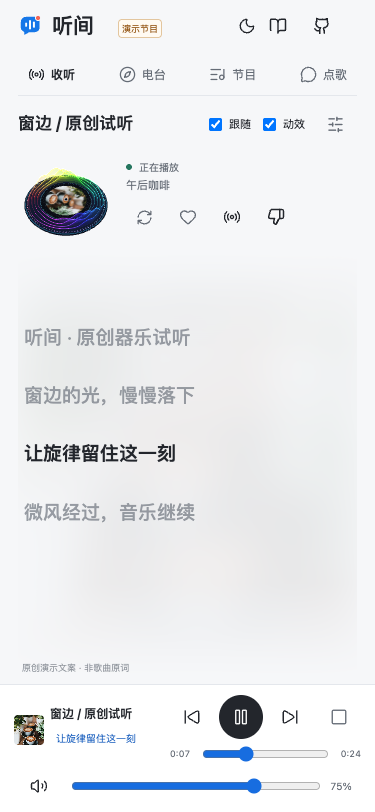
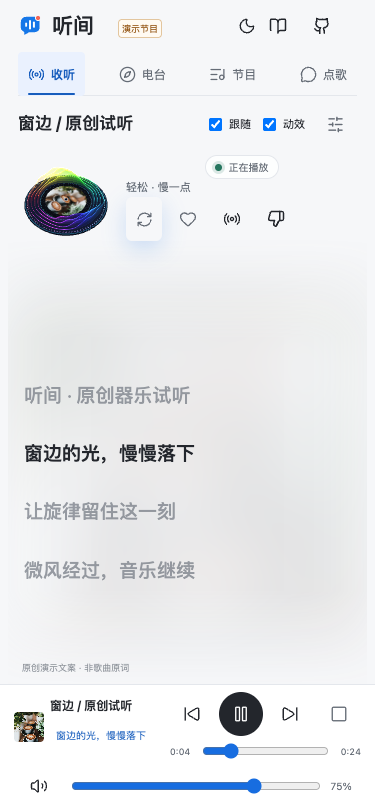
feat: refine focused listening interface

diff --git a/backend/static/index.html b/backend/static/index.html
@@ -12,20 +12,20 @@
   <meta name="twitter:card" content="summary_large_image">
   <title>听间 Tingjian · 你的 AI 音乐电台</title>
   <link rel="icon" href="assets/brand.svg" type="image/svg+xml">
-  <link rel="stylesheet" href="style.css?v=20260909-2">
-  <link rel="stylesheet" href="listening.css?v=20260909-2">
-  <link rel="stylesheet" href="lyrics.css?v=20260909-2">
-  <link rel="stylesheet" href="recommendations.css?v=20260909-2">
-  <link rel="stylesheet" href="quiet.css?v=20260909-2">
-  <script src="listening.js?v=20260909-2" defer></script>
-  <script src="app.js?v=20260909-2" type="module"></script>
+  <link rel="stylesheet" href="style.css?v=20260909-3">
+  <link rel="stylesheet" href="listening.css?v=20260909-3">
+  <link rel="stylesheet" href="lyrics.css?v=20260909-3">
+  <link rel="stylesheet" href="recommendations.css?v=20260909-3">
+  <link rel="stylesheet" href="quiet.css?v=20260909-3">
+  <script src="listening.js?v=20260909-3" defer></script>
+  <script src="app.js?v=20260909-3" type="module"></script>
 </head>
 <body id="top">
   <a class="skip-link" href="#listening">跳到播放器</a>
   <aside class="sidebar">
     <a class="brand" href="#listening" aria-label="听间首页"><img src="assets/brand.svg" alt="" width="40" height="40"><span><strong>听间</strong><small>TINGJIAN RADIO</small></span></a>
     <nav aria-label="主导航">
-      <a class="nav-link active" href="#listening" aria-label="正在收听"><span class="icon" style="--icon:url(assets/Radio.svg)"></span><span>收听</span></a>
+      <a class="nav-link active" href="#listening" aria-label="正在收听" aria-current="page"><span class="icon" style="--icon:url(assets/Radio.svg)"></span><span>收听</span></a>
       <a class="nav-link" href="#themes" aria-label="主题电台"><span class="icon" style="--icon:url(assets/Compass.svg)"></span><span>电台</span></a>
       <a class="nav-link" href="#queue-section" aria-label="节目、收藏与历史"><span class="icon" style="--icon:url(assets/ListMusic.svg)"></span><span>节目</span></a>
       <a class="nav-link" href="#conversation" aria-label="点歌互动"><span class="icon" style="--icon:url(assets/MessageCircle.svg)"></span><span>点歌</span></a>
@@ -34,14 +34,14 @@
   </aside>
 
   <main>
-    <header class="page-header"><div class="page-greeting"><p class="eyebrow" id="today"></p><h1>留一点时间，给音乐。</h1></div><span class="demo-badge" id="demo-badge" hidden>演示节目</span><div class="view-actions"><button class="icon-button" id="lyrics-toggle" aria-label="查看歌词" data-tip="查看歌词"><span class="icon" style="--icon:url(assets/Captions.svg)"></span></button><button class="icon-button" id="appearance" aria-label="切换深色模式" data-tip="切换深色模式"><span class="icon" id="appearance-icon" style="--icon:url(assets/Moon.svg)"></span></button><a class="icon-button" href="https://github.com/HachikoJ/easy-radio-host" target="_blank" rel="noopener noreferrer" aria-label="GitHub 项目" data-tip="GitHub 项目"><span class="icon" style="--icon:url(assets/ArrowUpRight.svg)"></span></a></div></header>
+    <header class="page-header"><div class="page-greeting"><p class="eyebrow" id="today"></p><h1>留一点时间，给音乐。</h1></div><span class="demo-badge" id="demo-badge" hidden>演示节目</span><div class="view-actions"><button class="icon-button" id="lyrics-toggle" aria-label="查看歌词" aria-controls="lyrics-lines" data-tip="查看歌词"><span class="icon" style="--icon:url(assets/Captions.svg)"></span></button><button class="icon-button" id="appearance" aria-label="切换深色模式" aria-pressed="false" data-tip="切换深色模式"><span class="icon" id="appearance-icon" style="--icon:url(assets/Moon.svg)"></span></button><a class="icon-button" href="https://github.com/HachikoJ/easy-radio-host" target="_blank" rel="noopener noreferrer" aria-label="GitHub 项目" data-tip="GitHub 项目"><span class="icon" style="--icon:url(assets/ArrowUpRight.svg)"></span></a></div></header>
     <div class="workspace">
       <div class="listen-column">
         <section class="listening" id="listening" aria-label="正在收听">
           <div class="cover-wrap"><img id="cover" src="assets/coffee.jpg" alt="午后咖啡主题封面" width="480" height="480"><span class="cover-caption"><span class="icon" style="--icon:url(assets/Headphones.svg)"></span>听间主题电台</span></div>
           <div class="show-summary">
             <p class="show-status"><span class="status-dot" id="status-dot"></span><span id="show-status" aria-live="polite">准备就绪</span></p>
-            <p class="selected-theme" id="show-theme">午后咖啡</p>
+            <p class="selected-theme" id="show-theme">轻松 · 慢一点</p>
             <div class="now-heading"><h2 id="now-title">午后咖啡</h2><div class="song-actions"><button class="icon-button favorite-action" id="favorite" aria-label="收藏当前歌曲" aria-pressed="false" data-tip="收藏当前歌曲" disabled><span class="icon" style="--icon:url(assets/Heart.svg)"></span></button><button class="icon-button" id="related" aria-label="生成同歌手延伸节目" data-tip="同歌手延伸" disabled><span class="icon" style="--icon:url(assets/Radio.svg)"></span></button><button class="icon-button" id="dislike" aria-label="少推荐这首" aria-pressed="false" data-tip="少推荐这首" disabled><span class="icon" style="--icon:url(assets/ThumbsDown.svg)"></span></button></div></div>
             <p class="recommendation-reason" id="recommendation-reason" hidden></p>
             <p class="show-slogan" id="show-slogan">忙里偷闲的一杯歌</p>
@@ -83,7 +83,7 @@
         </div>
         <div class="chat-composer">
           <p class="chat-error" id="chat-error" role="alert" hidden></p>
-          <form class="chat-form" id="chat-form" aria-busy="false"><label class="sr-only" for="message">点歌或与主持人聊天</label><textarea id="message" placeholder="想听什么，说给小蓝…" rows="2" maxlength="1000" aria-describedby="chat-error"></textarea><div class="composer-footer"><div class="composer-meta"><span class="chat-status" id="chat-status" role="status"></span><span id="message-count">0 / 1000</span></div><button class="send-button" id="send" type="submit" aria-label="发送给小蓝" data-tip="发送给小蓝" disabled><span class="icon" id="send-icon" style="--icon:url(assets/Send.svg)"></span></button></div></form>
+          <form class="chat-form" id="chat-form" aria-busy="false"><label class="sr-only" for="message">点歌或与主持人聊天</label><textarea id="message" placeholder="例如：想听陈奕迅的《十年》" rows="2" maxlength="1000" aria-describedby="chat-error"></textarea><div class="composer-footer"><div class="composer-meta"><span class="chat-status" id="chat-status" role="status"></span><span id="message-count">0 / 1000</span></div><button class="send-button" id="send" type="submit" aria-label="发送给小蓝" data-tip="发送给小蓝" disabled><span class="icon" id="send-icon" style="--icon:url(assets/Send.svg)"></span></button></div></form>
         </div>
       </aside>
     </div>
@@ -91,7 +91,7 @@
   </main>
 
   <footer class="player-bar" aria-label="播放控制">
-    <div class="track-summary"><img id="mini-cover" src="assets/coffee.jpg" alt="" width="48" height="48"><div><strong id="track-title">还没有开始播放</strong><span id="track-kind">午后咖啡 · 小蓝</span><button class="player-lyric" id="player-lyric" aria-label="查看歌词" disabled><span id="player-lyric-text">选择歌曲后显示歌词</span></button></div></div>
+    <div class="track-summary"><img id="mini-cover" src="assets/coffee.jpg" alt="" width="48" height="48"><div><strong id="track-title">还没有开始播放</strong><span id="track-kind">小蓝 · 等待开播</span><button class="player-lyric" id="player-lyric" aria-label="查看歌词" aria-controls="lyrics-lines" disabled><span id="player-lyric-text">选择歌曲后显示歌词</span></button></div></div>
     <div class="transport"><div class="transport-buttons"><button class="icon-button" id="previous" aria-label="上一段" data-tip="上一段" disabled><span class="icon" style="--icon:url(assets/SkipBack.svg)"></span></button><button class="play-button" id="play" aria-label="开始收听" data-tip="开始收听"><span class="icon" id="play-icon" style="--icon:url(assets/Play.svg)"></span></button><button class="icon-button" id="next" aria-label="下一段" data-tip="下一段" disabled><span class="icon" style="--icon:url(assets/SkipForward.svg)"></span></button><button class="icon-button stop-button" id="stop" aria-label="停止播放" data-tip="停止播放" disabled><span class="icon" style="--icon:url(assets/Square.svg)"></span></button></div><div class="progress"><time id="elapsed">0:00</time><input id="seek" type="range" min="0" max="1000" value="0" aria-label="播放进度" disabled><time id="duration">0:00</time></div></div>
     <div class="volume"><button class="icon-button" id="mute" aria-label="静音" data-tip="静音"><span class="icon" id="volume-icon" style="--icon:url(assets/Volume2.svg)"></span></button><input id="volume" type="range" min="0" max="100" value="75" aria-label="音量"><span id="volume-value">75%</span></div>
   </footer>

diff --git a/backend/static/listening.css b/backend/static/listening.css
@@ -1,8 +1,8 @@
-:root{--surface-muted:#edf0f4;--hover:#e9edf3;--action-text:#175dbd;--field-line:#d9dee6;--player-surface:#fffffff5;--danger-bg:#fff0ee;--danger-text:#863b37}
+:root{--surface-muted:#edf0f4;--hover:#e9edf3;--action-text:#175dbd;--field-line:#858d98;--player-surface:#fffffff5;--danger-bg:#fff0ee;--danger-text:#863b37}
 .view-actions{display:flex;gap:4px;align-items:center;margin-left:auto;flex:none}.view-actions .icon-button{width:44px;height:44px}.focus-brand{display:none}.selected-theme{font-size:12px;color:var(--secondary);margin-bottom:7px}.now-heading{display:flex;align-items:flex-start;gap:10px}.now-heading h2{font-size:27px;line-height:1.4;flex:1}.favorite-action{color:var(--secondary);width:44px;height:44px}.favorite-action[aria-pressed=true]{color:#c74b61;background:#fcecf0}.favorite-action:disabled{opacity:.3}.show-summary h2{overflow-wrap:anywhere}.listening{gap:28px}.show-slogan{font-size:13px}.host-byline{font-size:12px}.show-status{font-size:12px}.theme-card strong{font-size:13px}.theme-card small{font-size:11px}.queue-copy strong{font-size:13px}.queue-copy small{font-size:11px}.tiny-label{font-size:12px}.chat-entry,.host-intro p,.transcript p{font-size:14px}.chat-entry .speaker{font-size:11px}.chat-form textarea{font-size:14px}.send-button{height:44px;width:44px}.composer-footer{font-size:11px}.track-summary strong{font-size:13px}.track-summary span{font-size:11px}.icon-button,.play-button{width:44px;height:44px}.player-bar{background:var(--player-surface)}
 .library-tabs{display:flex;gap:22px;border-bottom:1px solid var(--line);margin-bottom:16px}.library-tabs button{min-height:46px;font-size:15px;padding:8px 0;border-bottom:2px solid transparent;color:var(--secondary);white-space:nowrap}.library-tabs button[aria-selected=true]{border-bottom-color:var(--blue);color:var(--ink);font-weight:600}.library-meta{font-size:12px;color:var(--secondary);margin:0 0 12px}.library-empty{min-height:100px;display:grid;place-items:center;color:var(--secondary);font-size:13px}.library-list{margin:0;padding:0;list-style:none}.library-list button{display:flex;align-items:center;gap:14px;width:100%;text-align:left;min-height:70px;border-bottom:1px solid var(--line);padding:12px}.library-list button:hover{background:var(--surface-muted)}.library-list .icon{color:var(--secondary);width:18px;height:18px}.library-copy{flex:1;min-width:0}.library-copy strong{display:block;font-size:13px;font-weight:500;overflow-wrap:anywhere}.library-copy small{display:block;font-size:11px;color:var(--secondary);margin-top:6px}.library-status{font-size:12px;color:var(--danger-text);line-height:1.7;margin-top:12px}.queue-section .section-heading{margin-bottom:8px}.page-footer{justify-content:flex-start;font-size:12px}.page-footer>span{margin-right:auto}
 .focus-mode .sidebar,.focus-mode .page-greeting,.focus-mode .listening,.focus-mode .theme-section,.focus-mode .queue-section,.focus-mode .conversation,.focus-mode .page-footer{display:none}.focus-mode .workspace,.focus-mode .listen-column{display:contents}.focus-mode main{margin:0;max-width:none;padding:28px 48px 0}.focus-mode .page-header{margin-bottom:20px}.focus-mode .focus-brand{display:flex;align-items:center;gap:10px;font-size:25px}.focus-mode .focus-brand img{width:36px;height:36px}.focus-mode .notice{position:fixed;bottom:calc(var(--player) + 16px);left:50%;transform:translateX(-50%);width:min(580px,calc(100% - 32px));z-index:7}.focus-stage{display:grid;grid-template-columns:minmax(0,420px) minmax(0,440px);justify-content:center;align-items:center;gap:76px;min-height:calc(100dvh - 224px);padding:30px 0 50px}.focus-art{margin:0;width:100%;min-width:0}.focus-art img{width:100%;aspect-ratio:1;height:auto;border-radius:6px}.focus-art figcaption{font-size:12px;color:var(--secondary);margin-top:16px}.focus-copy{min-width:0}.focus-copy h1{font-size:36px;line-height:1.45;overflow-wrap:anywhere}.focus-subtitle{color:var(--secondary);font-size:14px;margin:16px 0 10px}.focus-note{padding-top:22px;margin-top:16px;border-top:1px solid var(--line)}.focus-note>p:last-child{font-size:17px;line-height:1.9;margin-top:12px;white-space:pre-wrap;overflow-wrap:anywhere}.up-next{margin-top:28px;padding-top:24px;border-top:1px solid var(--line)}.up-next span{font-size:12px;color:var(--secondary)}.up-next p{font-size:14px;line-height:1.7;margin-top:8px;overflow-wrap:anywhere}
-html[data-appearance=dark]{color-scheme:dark;--canvas:#17191c;--white:#202226;--ink:#f0f1f3;--secondary:#afb3bb;--line:#363940;--blue:#3984ef;--soft-blue:#233751;--surface-muted:#282c31;--hover:#333840;--action-text:#91c0ff;--field-line:#51565f;--player-surface:#202226f7;--danger-bg:#402828;--danger-text:#ffb0a8}
+html[data-appearance=dark]{color-scheme:dark;--canvas:#17191c;--white:#202226;--ink:#f0f1f3;--secondary:#afb3bb;--line:#363940;--blue:#3984ef;--soft-blue:#233751;--surface-muted:#282c31;--hover:#333840;--action-text:#91c0ff;--field-line:#707782;--player-surface:#202226f7;--danger-bg:#402828;--danger-text:#ffb0a8}
 html[data-appearance=dark] .sidebar .nav-link:hover{background:var(--hover);color:var(--ink)}html[data-appearance=dark] .nav-link.active{color:var(--action-text)}html[data-appearance=dark] .chat-form{background:var(--white);border-color:var(--field-line)}html[data-appearance=dark] .chat-form:focus-within{border-color:var(--action-text)}html[data-appearance=dark] textarea::placeholder{color:var(--secondary)}html[data-appearance=dark] .chat-entry.user,html[data-appearance=dark] .queue-item.active button{background:var(--soft-blue);color:var(--ink)}html[data-appearance=dark] .queue-item button:hover{background:var(--surface-muted)}html[data-appearance=dark] .queue-kind{background:var(--hover);color:var(--secondary)}html[data-appearance=dark] .queue-item.active .queue-kind{background:var(--soft-blue);color:var(--action-text)}html[data-appearance=dark] .icon-button:hover:not(:disabled){background:var(--hover)}html[data-appearance=dark] .play-button{background:#e8edf4;color:#202226}html[data-appearance=dark] .play-button:hover:not(:disabled){background:#bdd7fc}html[data-appearance=dark] .host-avatar{background:var(--soft-blue);color:var(--action-text)}html[data-appearance=dark] .chat-status{color:var(--action-text)}html[data-appearance=dark] .notice{background:var(--danger-bg);color:var(--danger-text)}html[data-appearance=dark] .chat-error{color:var(--danger-text)}html[data-appearance=dark] .favorite-action[aria-pressed=true]{background:#442b33;color:#ffacbc}html[data-appearance=dark] .queue-empty,html[data-appearance=dark] .queue-empty .icon,html[data-appearance=dark] .queue-number{color:var(--secondary)}html[data-appearance=dark] .demo-badge{color:#f5c77e;border-color:#715b38;background:#30281d}html[data-appearance=dark] .primary-button,html[data-appearance=dark] .send-button{background:#216acc}html[data-appearance=dark] .skip-link{background:var(--white);color:var(--ink)}
 @media(max-width:1180px){.now-heading h2{font-size:26px}.theme-card strong{font-size:12px}.theme-card small{font-size:10px}.focus-stage{gap:44px;grid-template-columns:minmax(0,360px) minmax(0,400px)}}
 @media(max-width:800px){.page-header{flex-wrap:wrap;gap:12px}.page-greeting{flex:1;min-width:200px}.view-actions{margin-left:0}.page-header .demo-badge{margin-left:0}.page-header h1{font-size:22px}.focus-mode main{padding:22px 24px 0}.focus-stage{min-height:0;grid-template-columns:minmax(0,1fr);gap:30px;padding:20px 0 35px;max-width:500px;margin:auto}.focus-art{max-width:320px;justify-self:center}.focus-copy h1{font-size:28px}.focus-mode .view-actions{margin-left:auto}.focus-mode .page-header{flex-wrap:nowrap;gap:8px}.focus-mode .demo-badge{font-size:10px;padding:4px}.focus-copy .eyebrow{font-size:12px}.up-next{margin-top:18px;padding-top:18px}.chat-form textarea{font-size:16px}.library-tabs{gap:24px}.track-summary strong{font-size:12px}.track-summary span{font-size:10px}.theme-card strong{font-size:13px}.theme-card small{font-size:11px}.focus-note>p:last-child{font-size:16px}.page-footer{flex-wrap:wrap;gap:14px}}

diff --git a/backend/static/quiet.css b/backend/static/quiet.css
@@ -253,3 +253,68 @@ html[data-appearance=dark] .quiet-ui .chat-entry.user{background:none}
 .quiet-ui .compact-chat .send-button{grid-column:2;grid-row:1/3}
 .quiet-ui .compact-chat .chat-error{max-height:36px;margin-bottom:4px}
 @media(prefers-reduced-motion:reduce){.quiet-ui .chat-form[aria-busy=true] .send-button .icon{animation:none}}
+
+/* State-led listening layout and interaction polish. */
+html,body,.quiet-ui .page-header,.quiet-ui .player-bar,.quiet-ui .utility-drawer{transition:background-color .22s,color .22s,border-color .22s}
+.quiet-ui .nav-link{position:relative;transition:background-color .15s,color .15s}
+.quiet-ui .nav-link.active{background:var(--soft-blue);color:var(--action-text)}
+.quiet-ui .nav-link.active:after{content:"";position:absolute;left:12px;right:12px;bottom:2px;height:2px;border-radius:2px;background:currentColor}
+.quiet-ui .show-status{width:max-content;max-width:100%;padding:4px 9px;border:1px solid var(--line);border-radius:999px;background:color-mix(in srgb,var(--white) 82%,transparent);color:var(--secondary);line-height:1.4}
+.quiet-ui .record-column .show-status{margin-inline:auto}
+.quiet-ui .status-dot{width:7px;height:7px;background:#7b8490;box-shadow:0 0 0 3px color-mix(in srgb,#7b8490 14%,transparent)}
+.quiet-ui[data-playback-state=playing] .status-dot{background:var(--green);box-shadow:0 0 0 3px color-mix(in srgb,var(--green) 16%,transparent)}
+.quiet-ui[data-playback-state=preparing] .status-dot,.quiet-ui[data-playback-state=recovering] .status-dot,.quiet-ui[data-playback-state=waiting] .status-dot{background:var(--blue);box-shadow:0 0 0 3px color-mix(in srgb,var(--blue) 18%,transparent);animation:status-pulse 1.6s ease-in-out infinite}
+.quiet-ui[data-playback-state=paused] .status-dot{background:#bd7a27;box-shadow:0 0 0 3px color-mix(in srgb,#bd7a27 16%,transparent)}
+.quiet-ui .primary-button{box-shadow:0 8px 22px color-mix(in srgb,var(--blue) 20%,transparent);transition:background-color .15s,box-shadow .15s,transform .1s}
+.quiet-ui .primary-button:active:not(:disabled){transform:translateY(1px);box-shadow:0 3px 10px color-mix(in srgb,var(--blue) 16%,transparent)}
+.quiet-ui .primary-button:disabled{background:var(--surface-muted);color:var(--secondary);box-shadow:none;opacity:1}
+.quiet-ui .drawer-shade{background:rgba(24,29,37,.16);backdrop-filter:none;-webkit-backdrop-filter:none}
+html[data-appearance=dark] .quiet-ui .drawer-shade{background:rgba(0,0,0,.28)}
+.quiet-ui .utility-drawer{border-color:color-mix(in srgb,var(--ink) 20%,var(--line));box-shadow:0 18px 54px rgba(20,25,32,.2)}
+.quiet-ui .lyrics-panel:before{opacity:.1;filter:blur(28px) saturate(.88);transform:scale(1.06)}
+.quiet-ui .lyrics-panel[data-state=loading] .lyrics-status-row,.quiet-ui .lyrics-panel[data-state=empty] .lyrics-status-row,.quiet-ui .lyrics-panel[data-state=error] .lyrics-status-row{flex:1;justify-content:center;align-items:center;text-align:center;min-height:88px}
+.quiet-ui .lyrics-panel[data-state=loading] .lyrics-lines:empty,.quiet-ui .lyrics-panel[data-state=empty] .lyrics-lines:empty,.quiet-ui .lyrics-panel[data-state=error] .lyrics-lines:empty{flex:0 0 0;height:0}
+.quiet-ui .lyrics-panel[data-state=loading] .lyrics-status-row p,.quiet-ui .lyrics-panel[data-state=empty] .lyrics-status-row p,.quiet-ui .lyrics-panel[data-state=error] .lyrics-status-row p{display:flex;align-items:center;justify-content:center;gap:9px;font-size:12px;line-height:1.7}
+.quiet-ui .lyrics-panel[data-state=loading] .lyrics-status-row p:before,.quiet-ui .lyrics-panel[data-state=empty] .lyrics-status-row p:before,.quiet-ui .lyrics-panel[data-state=error] .lyrics-status-row p:before{content:"";width:8px;height:8px;border:2px solid var(--line);border-top-color:var(--blue);border-radius:50%;flex:none}
+.quiet-ui .lyrics-panel[data-state=loading] .lyrics-status-row p:before{animation:status-turn .8s linear infinite}
+.quiet-ui .lyrics-panel[data-state=empty] .lyrics-status-row p:before{border:0;background:var(--secondary);opacity:.7}
+.quiet-ui .lyrics-panel[data-state=error] .lyrics-status-row p:before{border:0;background:var(--danger-text)}
+.quiet-ui:not(.has-current):not(.focus-mode) .listening{grid-template-columns:minmax(280px,520px);justify-content:center;column-gap:0}
+.quiet-ui:not(.has-current):not(.focus-mode) .track-heading,.quiet-ui:not(.has-current):not(.focus-mode) .record-column{grid-column:1}
+.quiet-ui:not(.has-current):not(.focus-mode) .track-heading{width:100%;justify-self:center}
+.quiet-ui:not(.has-current):not(.focus-mode) .lyric-column{display:none}
+.quiet-ui:not(.has-current):not(.focus-mode) .record-column .cover-wrap{width:min(100%,440px,var(--record-room,440px))}
+.quiet-ui:not(.has-current):not(.focus-mode) .record-column .show-summary{max-width:440px}
+.quiet-ui #player-lyric,.quiet-ui #mute,.quiet-ui #volume{min-height:44px}
+.quiet-ui #volume{touch-action:pan-x}
+@keyframes status-pulse{50%{box-shadow:0 0 0 7px color-mix(in srgb,var(--blue) 5%,transparent)}}
+@keyframes status-turn{to{transform:rotate(360deg)}}
+
+@media(min-width:601px) and (max-width:800px){
+  .quiet-ui:not(.focus-mode) .listening{grid-template-columns:minmax(220px,280px) minmax(0,1fr);grid-template-rows:auto minmax(0,1fr);column-gap:24px;row-gap:4px;padding:8px 0}
+  .quiet-ui .track-heading{grid-column:1/-1;grid-row:1}
+  .quiet-ui .record-column{grid-column:1;grid-row:2;flex-direction:column;justify-content:center;gap:0}
+  .quiet-ui .record-column .cover-wrap{width:min(100%,260px,var(--record-room,260px))}
+  .quiet-ui .record-column .show-summary{width:100%;text-align:center;display:block}
+  .quiet-ui .record-column .show-status,.quiet-ui .record-column .show-actions{justify-content:center}
+  .quiet-ui:not(.focus-mode) .lyric-column{grid-column:2;grid-row:2}
+  .quiet-ui:not(.has-current):not(.focus-mode) .listening{grid-template-columns:minmax(280px,500px);justify-content:center}
+  .quiet-ui:not(.has-current):not(.focus-mode) .track-heading,.quiet-ui:not(.has-current):not(.focus-mode) .record-column{grid-column:1}
+  .quiet-ui:not(.has-current):not(.focus-mode) .record-column .cover-wrap{width:min(100%,360px,var(--record-room,360px))}
+}
+
+@media(max-width:600px){
+  .quiet-ui:not(.has-current):not(.focus-mode) .listening{grid-template-columns:minmax(0,1fr);grid-template-rows:auto minmax(0,1fr);gap:2px;padding-top:4px}
+  .quiet-ui:not(.has-current):not(.focus-mode) .track-heading{grid-column:1;grid-row:1}
+  .quiet-ui:not(.has-current):not(.focus-mode) .record-column{grid-column:1;grid-row:2;flex-direction:column;justify-content:center;gap:2px}
+  .quiet-ui:not(.has-current):not(.focus-mode) .record-column .cover-wrap{width:min(48vw,190px,var(--record-room,190px))}
+  .quiet-ui:not(.has-current):not(.focus-mode) .record-column .show-summary{width:100%;text-align:center;flex:none;min-height:0}
+  .quiet-ui:not(.has-current):not(.focus-mode) .record-column .show-status,.quiet-ui:not(.has-current):not(.focus-mode) .record-column .show-actions{justify-content:center}
+  .quiet-ui .nav-link.active:after{left:10px;right:10px;bottom:1px}
+  .quiet-ui .volume .icon-button,.quiet-ui .volume input{height:44px;min-height:44px}
+}
+
+@media(prefers-reduced-motion:reduce){
+  html,body,.quiet-ui .page-header,.quiet-ui .player-bar,.quiet-ui .utility-drawer{transition:none}
+  .quiet-ui .status-dot,.quiet-ui .lyrics-status-row p:before{animation:none!important}
+}

diff --git a/backend/static/app.js b/backend/static/app.js
@@ -1,6 +1,6 @@
-import { createLyricsExperience } from './lyrics.js?v=20260909-2';
-import { createRecommendationExperience } from './recommendations.js?v=20260909-2';
-import { createQuietLayout } from './layout.js?v=20260909-2';
+import { createLyricsExperience } from './lyrics.js?v=20260909-3';
+import { createRecommendationExperience } from './recommendations.js?v=20260909-3';
+import { createQuietLayout } from './layout.js?v=20260909-3';
 
 const $ = id => document.getElementById(id);
 const audio = $('audio');
@@ -71,7 +71,7 @@ async function request(path, body, controller) {
   const timeout = setTimeout(() => controller.abort('timeout'), path === '/api/playback/resolve' ? 60000 : 240000);
   try {
     if (demo) {
-      const { respond } = await import('./demo.js?v=20260909-2');
+      const { respond } = await import('./demo.js?v=20260909-3');
       return await respond(path, body, controller.signal);
     }
     const response = await fetch(path, { method: 'POST', headers: { 'Content-Type': 'application/json' }, body: JSON.stringify(body), signal: controller.signal });
@@ -141,7 +141,9 @@ function renderPlayback() {
   const item = current(), busy = Boolean(generation);
   document.body.classList.toggle('has-programme', queue.length > 0 || Boolean(item));
   document.body.classList.toggle('has-song', item?.kind === 'song');
+  document.body.classList.toggle('has-current', Boolean(item));
   document.body.classList.toggle('preparing-programme', busy);
+  document.body.dataset.playbackState = busy && !item ? 'preparing' : mode === 'waiting' || pausedWaiting ? 'waiting' : ['recovering', 'announcement', 'cooldown'].includes(mode) ? 'recovering' : item && playing ? 'playing' : item ? 'paused' : queue.length ? 'complete' : 'idle';
   $('generate').disabled = busy;
   document.querySelectorAll('.theme-card').forEach(button => { button.disabled = busy; });
   $('cancel-generate').hidden = !busy;
@@ -158,11 +160,12 @@ function renderPlayback() {
   $('next').disabled = !item;
   $('stop').disabled = !item && !busy && !playing && !pausedWaiting;
   $('track-title').textContent = item ? item.title : queue.length ? '本期已播完' : '还没有开始播放';
-  $('track-kind').textContent = item ? `${interrupt ? '互动插播' : item.kind === 'song' ? '歌曲' : '主持人口播'} · ${activeTheme.name}` : `${selected.name} · 小蓝`;
+  $('track-kind').textContent = item ? item.kind === 'song' ? `${item.artist || '在线音乐'} · ${activeTheme.name}` : `小蓝 · ${activeTheme.name}` : queue.length ? `小蓝 · 本期已播完` : '小蓝 · 等待开播';
   $('mini-cover').src = `assets/${(item ? activeTheme : selected).image}.jpg`;
   $('transcript').hidden = !item || item.kind === 'song' || !item.text;
   $('transcript-text').textContent = item && item.kind !== 'song' ? item.text : '';
   $('show-status').textContent = busy ? '小蓝正在准备节目' : mode === 'cooldown' ? '小蓝陪你聊一会儿' : mode === 'waiting' ? '等待自动续播' : mode === 'announcement' ? '小蓝正在提醒' : item && selected !== activeTheme ? `待切换 · 正在收听${activeTheme.name}` : item ? playing ? interrupt ? '互动插播中' : '正在播放' : '已暂停' : pausedWaiting ? '已暂停自动续播' : queue.length ? '本期已播完' : '准备就绪';
+  $('show-theme').textContent = (item ? activeTheme : selected).detail;
   $('status-dot').classList.toggle('playing', playing);
   $('now-title').textContent = item?.title || selected.name;
   $('now-title').title = $('now-title').textContent;
@@ -696,6 +699,12 @@ function updateVolume() {
   const label = muted ? '取消静音' : '静音'; $('mute').setAttribute('aria-label', label); $('mute').dataset.tip = label;
   setIcon('volume-icon', muted ? 'VolumeX' : 'Volume2');
 }
+function adjustVolume(delta) {
+  if (muted && delta > 0) muted = false;
+  else if (!muted) volume = Math.max(0, Math.min(1, volume + delta));
+  muted = volume === 0;
+  updateVolume();
+}
 $('seek').addEventListener('input', event => { if (mode === 'media' && Number.isFinite(audio.duration)) { audio.currentTime = audio.duration * Number(event.target.value) / 1000; renderProgress(); } });
 audio.addEventListener('loadedmetadata', () => { if (mode !== 'media') return; if (nextSeek && Number.isFinite(audio.duration)) audio.currentTime = Math.min(nextSeek, Math.max(0, audio.duration - .1)); nextSeek = 0; renderProgress(); });
 audio.addEventListener('timeupdate', renderProgress);
@@ -722,7 +731,7 @@ listening = createListeningExperience({
   play: () => { if (!playing) togglePlay(); }, pause: pausePlayback, next: advance, previous, stop,
   seek: seconds => { if (mode === 'media' && Number.isFinite(audio.duration)) { audio.currentTime = Math.max(0, Math.min(audio.duration, seconds)); renderProgress(); } },
   replay: title => { if (chatRequest) { notify('小蓝正在回应，请稍后再点播。'); return; } sendChat(undefined, `请播放《${title}》`); },
-  notify
+  notify, adjustVolume
 });
 lyrics = createLyricsExperience({ audio, state: current, demo,
   seek: seconds => { if (mode === 'media' && Number.isFinite(audio.duration)) { audio.currentTime = Math.max(0, Math.min(audio.duration, seconds)); renderProgress(); } }

diff --git a/backend/static/layout.js b/backend/static/layout.js
@@ -56,7 +56,7 @@ export function createQuietLayout({ icon }) {
   window.addEventListener('resize', sizeSettings);
   window.addEventListener('scroll', sizeSettings, { passive: true });
 
-  const drawer = document.createElement('dialog'); drawer.className = 'utility-drawer';
+  const drawer = document.createElement('dialog'); drawer.className = 'utility-drawer'; drawer.id = 'utility-drawer';
   drawer.setAttribute('aria-modal', 'false'); drawer.setAttribute('aria-labelledby', 'drawer-title');
   const drawerHeader = document.createElement('div'); drawerHeader.className = 'drawer-heading';
   const title = document.createElement('h2'); title.id = 'drawer-title';
@@ -70,9 +70,22 @@ export function createQuietLayout({ icon }) {
     ['conversation', { title: '点歌互动', node: get('conversation') }]
   ]);
   for (const { node } of sections.values()) { node.hidden = true; content.append(node); }
-  const shade = document.createElement('div'); shade.className = 'drawer-shade'; shade.hidden = true;
+  const shade = document.createElement('div'); shade.className = 'drawer-shade'; shade.hidden = true; shade.setAttribute('aria-hidden', 'true');
   document.body.append(shade, drawer);
   let opener = null, activePanel = null;
+  const navLinks = [...nav.querySelectorAll('a')];
+  for (const link of navLinks) {
+    link.setAttribute('aria-controls', link.hash === '#listening' ? 'listening' : drawer.id);
+    if (link.hash !== '#listening') link.setAttribute('aria-expanded', 'false');
+  }
+  const updateNavigation = id => {
+    for (const link of navLinks) {
+      const active = link.hash === `#${id}`;
+      link.classList.toggle('active', active);
+      if (link.hash !== '#listening') link.setAttribute('aria-expanded', String(active));
+      if (active) link.setAttribute('aria-current', 'page'); else link.removeAttribute('aria-current');
+    }
+  };
   const fitChatViewport = () => {
     drawer.classList.remove('compact-chat');
     drawer.style.removeProperty('--chat-top');
@@ -92,9 +105,9 @@ export function createQuietLayout({ icon }) {
   const reduced = matchMedia('(prefers-reduced-motion: reduce)');
   function closeDrawer(restore = true) {
     if (!drawer.open) return;
-    drawer.close(); shade.hidden = true; activePanel = null;
+    drawer.close(); shade.hidden = true; document.body.classList.remove('drawer-open'); activePanel = null;
     get('listening').inert = false;
-    nav.querySelectorAll('a').forEach(link => link.classList.toggle('active', link.hash === '#listening'));
+    updateNavigation('listening');
     if (restore) opener?.focus({ preventScroll: true });
   }
   function openDrawer(id, trigger) {
@@ -108,13 +121,13 @@ export function createQuietLayout({ icon }) {
     title.textContent = selected.title;
     if (!drawer.open) drawer.show();
     fitChatViewport();
-    shade.hidden = false;
+    shade.hidden = false; document.body.classList.add('drawer-open');
     get('listening').inert = true;
-    nav.querySelectorAll('a').forEach(link => link.classList.toggle('active', link.hash === `#${id}`));
+    updateNavigation(id);
     if (!reduced.matches) content.animate([{ opacity: .2, transform: 'translateX(14px)' }, { opacity: 1, transform: 'none' }], { duration: 220, easing: 'ease-out' });
     (id === 'conversation' ? get('message') : close).focus({ preventScroll: true });
   }
-  nav.querySelectorAll('a').forEach(link => link.addEventListener('click', event => {
+  navLinks.forEach(link => link.addEventListener('click', event => {
     event.preventDefault(); openDrawer(link.hash.slice(1), link);
   }));
   document.querySelector('.brand').addEventListener('click', event => { event.preventDefault(); closeDrawer(false); });
@@ -130,6 +143,14 @@ export function createQuietLayout({ icon }) {
     if (event.target.closest('button') && !event.target.closest('.favorite-remove')) closeDrawer();
   });
   document.addEventListener('keydown', event => {
+    if (event.key === 'Tab' && drawer.open) {
+      const focusable = [...drawer.querySelectorAll('button:not(:disabled),a[href],input:not(:disabled),textarea:not(:disabled),select:not(:disabled),summary,[tabindex]:not([tabindex="-1"])')].filter(node => !node.hidden && node.getClientRects().length);
+      if (!focusable.length) { event.preventDefault(); drawer.focus(); return; }
+      const first = focusable[0], last = focusable.at(-1);
+      if (event.shiftKey && (document.activeElement === first || !drawer.contains(document.activeElement))) { event.preventDefault(); last.focus(); }
+      else if (!event.shiftKey && document.activeElement === last) { event.preventDefault(); first.focus(); }
+      return;
+    }
     if (event.key !== 'Escape') return;
     if (settings.open) { settings.open = false; summary.focus(); }
     else if (drawer.open) closeDrawer();

diff --git a/backend/static/listening.js b/backend/static/listening.js
@@ -90,15 +90,26 @@ function createListeningExperience(actions) {
     document.documentElement.dataset.appearance = appearance;
     const label = appearance === 'dark' ? '切换浅色模式' : '切换深色模式';
     get('appearance').setAttribute('aria-label', label); get('appearance').dataset.tip = label;
+    get('appearance').setAttribute('aria-pressed', String(appearance === 'dark'));
     get('appearance-icon').style.setProperty('--icon', `url(assets/${appearance === 'dark' ? 'Sun' : 'Moon'}.svg)`);
     document.querySelector('meta[name="theme-color"]').content = appearance === 'dark' ? '#17191c' : '#f6f7f9';
   }
-  let appearance = 'light';
-  try { if (localStorage.getItem('tingjian.appearance.v1') === 'dark') appearance = 'dark'; } catch { /* Storage is optional. */ }
+  const systemAppearance = matchMedia('(prefers-color-scheme: dark)');
+  let storedAppearance = null;
+  try {
+    const saved = localStorage.getItem('tingjian.appearance.v1');
+    if (saved === 'light' || saved === 'dark') storedAppearance = saved;
+  } catch { /* Storage is optional. */ }
+  let appearance = storedAppearance || (systemAppearance.matches ? 'dark' : 'light');
   setAppearance(appearance);
+  systemAppearance.addEventListener('change', event => {
+    if (storedAppearance) return;
+    appearance = event.matches ? 'dark' : 'light';
+    setAppearance(appearance);
+  });
   get('appearance').addEventListener('click', () => {
-    appearance = appearance === 'dark' ? 'light' : 'dark'; setAppearance(appearance);
-    try { localStorage.setItem('tingjian.appearance.v1', appearance); } catch { actions.notify('当前浏览器无法记住配色，下次打开将使用浅色。'); }
+    appearance = appearance === 'dark' ? 'light' : 'dark'; storedAppearance = appearance; setAppearance(appearance);
+    try { localStorage.setItem('tingjian.appearance.v1', appearance); } catch { actions.notify('当前浏览器无法记住配色，下次打开将跟随系统设置。'); }
   });
   function seekBy(delta) { actions.seek((document.getElementById('audio').currentTime || 0) + delta); }
   document.addEventListener('keydown', event => {
@@ -107,6 +118,8 @@ function createListeningExperience(actions) {
     if (event.code === 'Space') { event.preventDefault(); actions.state().playing ? actions.pause() : actions.play(); }
     if (event.key === 'ArrowLeft') { event.preventDefault(); seekBy(-5); }
     if (event.key === 'ArrowRight') { event.preventDefault(); seekBy(5); }
+    if (event.key === 'ArrowUp') { event.preventDefault(); actions.adjustVolume(.05); }
+    if (event.key === 'ArrowDown') { event.preventDefault(); actions.adjustVolume(-.05); }
   });
 
   const session = navigator.mediaSession;

diff --git a/backend/static/record-motion.js b/backend/static/record-motion.js
@@ -139,7 +139,7 @@ export function createRecordMotion(stages, audio) {
   });
   surfaces.forEach(({ canvas }) => observer.observe(canvas));
   new MutationObserver(paint).observe(document.documentElement, { attributes: true, attributeFilter: ['data-appearance'] });
-  import('./record-scene.js?v=20260909-2').then(({ createRecordScene }) => {
+  import('./record-scene.js?v=20260909-3').then(({ createRecordScene }) => {
     for (const surface of surfaces) {
       const canvas = surface.canvas.cloneNode(false);
       try {

diff --git a/backend/static/lyrics.js b/backend/static/lyrics.js
@@ -1,5 +1,5 @@
-import { parseLyrics, activeLine, lyricEndpoint, lyricRetryAfter } from './lyrics-data.js?v=20260909-2';
-import { createRecordMotion } from './record-motion.js?v=20260909-2';
+import { parseLyrics, activeLine, lyricEndpoint, lyricRetryAfter } from './lyrics-data.js?v=20260909-3';
+import { createRecordMotion } from './record-motion.js?v=20260909-3';
 
 export function createLyricsExperience({ audio, state, seek, demo }) {
   const get = id => document.getElementById(id);

diff --git a/README.en.md b/README.en.md
@@ -37,11 +37,11 @@ Tingjian is an AI music radio for listeners who enjoy themed listening and are c
 - **Optional preferences:** Listening settings bring together continuous playback, translations, lyric timing, and song preferences. "按我的偏好选歌" (Use my preferences) is off by default. Enabling it allows local favorites, history, and "Recommend less" titles to inform the current recommendation, with privacy details available before opting in. "Recommend less" can be undone; ordinary skips and playback failures are not treated as dislikes, and explicit song requests remain available.
 - **Host narration:** MiniMax uses `Chinese (Mandarin)_Warm_Girl` by default, with edge-tts fallback support. ffmpeg balances newly generated narration, while songs play at 85% of the master volume to reduce level differences between speech and music. Original narration is retained when ffmpeg is unavailable or processing fails.
 - **Continuous playback:** A show queue, previous/next segments, seeking and volume, automatic continuation, and stop controls. Missing sources, rate limits, and temporary failures display and announce the reason before automatically trying the next recommendation. When no playable track remains during a quota cooldown, the player rotates through eight pre-generated MiniMax segments about mood, relaxation, conditional weather, and the time of day, then resumes music as soon as the quota recovers. Waiting does not request weather or location data or call GD, DeepSeek, or MiniMax. Pausing or closing the page cancels requests, lyric recovery, waiting timers, and announcements, and releases audio connections.
-- **Focused listening:** A single listening view adapts the disc and lyrics to viewport height to keep the main experience on one screen. The track title shares a row with right-aligned following, animation, and settings controls. Theme stations, the queue/favorites/history, and chat open on demand while the bottom player stays available. Light/dark appearance, keyboard controls, and system media controls in supported browsers are included. Credits and the author's GitHub open in new tabs from the top right; credits display Chinese by default, with English shown after selecting English.
+- **Focused listening:** A single listening view adapts the disc and lyrics to viewport height to keep the main experience on one screen. Idle and programme-generation states collapse the empty lyric area; playback restores the two-column lyric layout. The track title shares a row with right-aligned following, animation, and settings controls. Theme stations, the queue/favorites/history, and chat open on demand while the bottom player preserves playback context. Appearance follows the system when no preference is saved. Keyboard controls cover Space for play/pause, Left/Right for seeking, and Up/Down for volume; supported browsers also expose system media controls. Credits and the author's GitHub open in new tabs from the top right; credits display Chinese by default, with English shown after selecting English.
 - **Favorites and history:** Store up to 100 favorites and 50 recent tracks locally in your browser, deduplicated by title; history records songs only once playback actually starts.
 - **Song requests:** Chat with Xiaolan, request tracks, or control playback; cancel generation, retry failures, and keep your draft when a request fails.
 - **Online library:** Verify actual audio before adding recommendations or requests to the queue. Search across channels using title, artist, and recording version, with simplified/traditional Chinese matching, multiple candidates, and pagination. Playback failures first refresh the URL, then search for another matching source. An unavailable explicit request identifies the song in the notice and announces the reason. Rate limits, timeouts, and incomplete searches are explained separately and are not reported as missing songs.
-- **Synchronized lyrics:** A spacious lyric view is visible by default, with faded theme photography behind highlighted text and independent scrolling inside the lyric area; the same area shows the transcript during host narration. The fixed player shows the current line; tapping its lyric preview focuses the lyric view and resumes following. LRC lyrics follow playback by default, with tap-to-seek including 0 seconds. Following resumes 3 seconds after manual browsing; only explicitly switching it off keeps it disabled. Delay adjustment from -10 to +10 seconds and optional timestamped translations are available. A 429 response is retried after the server-provided delay. Only a successful 200 response with empty lyrics triggers a strict title, artist, and version match across other channels. Successful results are cached in memory without saving lyric files. Loading, quota waits, cross-channel lookup, confirmed missing lyrics, failures, and timeouts have distinct states; plain text stays untimed.
+- **Synchronized lyrics:** A spacious lyric view opens when playback starts, with faded theme photography behind highlighted text and independent scrolling inside the lyric area; the same area shows the transcript during host narration. Loading, confirmed missing lyrics, and failures are centered clearly in that area. The fixed player shows the current line; tapping its lyric preview focuses the lyric view and resumes following. LRC lyrics follow playback by default, with tap-to-seek including 0 seconds. Following resumes 3 seconds after manual browsing; only explicitly switching it off keeps it disabled. Delay adjustment from -10 to +10 seconds and optional timestamped translations are available. A 429 response is retried after the server-provided delay. Only a successful 200 response with empty lyrics triggers a strict title, artist, and version match across other channels. Successful results are cached in memory without saving lyric files. Loading, quota waits, cross-channel lookup, confirmed missing lyrics, failures, and timeouts have distinct states; plain text stays untimed.
 - **Playback animation:** A rotating disc displays a theme image at its center, surrounded by a black ring supporting colorful glowing edges and layered translucent 3D waves. When the browser and audio source support analysis, the waves flow with actual frequency bands, bass, and volume; otherwise, a smooth playback animation takes over. A 2D ripple fallback is available without WebGL. Motion stops during buffering, pauses, or when the page is hidden. The animation toggle is remembered and system reduced-motion preferences are respected. The theme image is not the track's album artwork.
 
 ## Product preview

diff --git a/README.md b/README.md
@@ -37,11 +37,11 @@
 - **自主偏好**：收听设置集中放置连续播放、译文、歌词时差与选歌偏好。「按我的偏好选歌」默认关闭；开启后才将本地收藏、历史和「少推荐」标题用于本次推荐，开启前可查看隐私说明。「少推荐」可撤回，普通跳过与播放失败不视为不喜欢，主动点歌仍可播放指定歌曲。
 - **主持人口播**：MiniMax 默认使用 `Chinese (Mandarin)_Warm_Girl`，支持 edge-tts 降级。新生成的口播通过 ffmpeg 平衡响度，歌曲以主音量的 85% 播放，减少口播与歌曲切换时的音量落差；缺少 ffmpeg 或处理失败时保留原口播。
 - **连续播放**：节目单、上一段与下一段、进度和音量控制，支持自动续播与停止。无音源、限流或临时故障时，文字提示并播报原因后自动尝试下一首推荐；暂无可播歌曲且额度冷却时，从 8 条预生成的 MiniMax 陪伴话题中轮播心情、放松、条件式天气和时段内容，额度恢复后立即继续音乐。等待期间不请求天气或位置，也不调用 GD、DeepSeek 或 MiniMax。暂停或关闭页面会取消请求、歌词恢复、等待计时及播报，释放音频连接。
-- **专注收听**：统一的收听页随视口高度分配唱片与歌词空间，主要内容保持一屏；歌曲标题与右对齐的跟随、动效和设置同处一行。主题电台、节目/收藏/历史与点歌互动按需展开，底部播放控制始终可用。支持明暗配色、键盘及兼容浏览器的系统媒体控制。右上角的致谢和作者 GitHub 在新标签页打开，致谢默认中文，点击 English 后展示英文。
+- **专注收听**：统一的收听页随视口高度分配唱片与歌词空间，主要内容保持一屏；待机和节目生成时收起空歌词区，播放后恢复双栏歌词。歌曲标题与右对齐的跟随、动效和设置同处一行。主题电台、节目/收藏/历史与点歌互动按需展开，底部播放控制始终保留播放上下文。明暗配色在没有保存偏好时跟随系统；支持空格播放、左右键快进退、上下键调音量及兼容浏览器的系统媒体控制。右上角的致谢和作者 GitHub 在新标签页打开，致谢默认中文，点击 English 后展示英文。
 - **收藏与历史**：浏览器本地保存最多 100 首收藏、50 条按标题去重的收听历史；歌曲实际开始播放后才记入历史。
 - **点歌互动**：与小蓝聊天、点歌或控制播放；支持生成取消、失败重试和失败时保留输入草稿。
 - **在线曲库**：推荐和点歌入队前检查真实音频；按歌名、歌手和版本跨渠道检索，支持繁简匹配、多个候选及分页。播放失败先刷新，再寻找其他匹配音源；用户指定歌曲无可用匹配时明确提示曲名并播报原因。限流、超时和检索未完成分别说明，不误报歌曲不存在。
-- **同步歌词**：大面积歌词区默认可见，以淡化的主题照片为背景，用文字高亮呈现当前行，歌词在区域内独立滚动；主持人讲话时在同一区域展示口播文稿。底部播放器显示当前歌词，点按可聚焦歌词区并恢复跟随。LRC 默认跟随播放，点按可跳播（含 0 秒）；手动浏览后 3 秒恢复跟随，只有主动关闭跟随开关才持续停止。支持 -10 至 +10 秒延后调整和可选的时间戳译文。歌词请求遇到 429 时按服务返回的等待时间自动恢复；只有原渠道成功返回 200 但歌词为空时，才按歌名、歌手和版本严格匹配其他渠道。成功结果只在内存缓存，不保存歌词文件。加载、等待额度、跨渠道补找、确实无歌词、请求失败及超时分别提示，纯文本不猜测时间。
+- **同步歌词**：歌曲开始后展开大面积歌词区，以淡化的主题照片为背景，用文字高亮呈现当前行，歌词在区域内独立滚动；主持人讲话时在同一区域展示口播文稿。加载、确实无歌词和请求失败会在区域中央清楚呈现。底部播放器显示当前歌词，点按可聚焦歌词区并恢复跟随。LRC 默认跟随播放，点按可跳播（含 0 秒）；手动浏览后 3 秒恢复跟随，只有主动关闭跟随开关才持续停止。支持 -10 至 +10 秒延后调整和可选的时间戳译文。歌词请求遇到 429 时按服务返回的等待时间自动恢复；只有原渠道成功返回 200 但歌词为空时，才按歌名、歌手和版本严格匹配其他渠道。成功结果只在内存缓存，不保存歌词文件。加载、等待额度、跨渠道补找、确实无歌词、请求失败及超时分别提示，纯文本不猜测时间。
 - **播放动效**：旋转唱片中央展示主题图片，外围黑色圆环承托彩色发光沿线与多层半透明立体波幕。浏览器与音源支持时，波幕随实际频段、低频和音量延绵起伏；无法分析时使用平滑播放动画，不支持 WebGL 时显示二维涟漪。等待、暂停或页面隐藏时停止，记住动效开关并尊重系统减少动态效果设置；主题图片不是歌曲专辑封面。
 
 ## 产品预览

diff --git a/DEPLOY-HANDOFF.md b/DEPLOY-HANDOFF.md
@@ -187,7 +187,7 @@ ffmpeg -hide_banner -nostdin -i '<VOICE_FILE>' \
 
 ## 7. 更新与恢复
 
-前端 HTML、CSS 与 JavaScript 返回 `Cache-Control: no-cache`，浏览器再次访问时通过 ETag 校验是否有更新，未变化时仍可返回 304。页面入口及应用模块带版本参数，避免旧浏览器缓存混用新旧界面；更换已发布的资源版本时，入口与应用模块引用应保持一致。部署不会强制刷新正在收听的标签页，更新后重新打开或刷新页面才加载新代码；若此前缓存了旧入口，可在地址后加 `?v=20260909-2` 打开一次。
+前端 HTML、CSS 与 JavaScript 返回 `Cache-Control: no-cache`，浏览器再次访问时通过 ETag 校验是否有更新，未变化时仍可返回 304。页面入口及应用模块带版本参数，避免旧浏览器缓存混用新旧界面；更换已发布的资源版本时，入口与应用模块引用应保持一致。部署不会强制刷新正在收听的标签页，更新后重新打开或刷新页面才加载新代码；若此前缓存了旧入口，可在地址后加 `?v=20260909-3` 打开一次。
 
 保留上次发布的代码包和提交 SHA。每次更新前备份配置、代码与用户数据，备份只允许管理员访问，不上传仓库：
 
